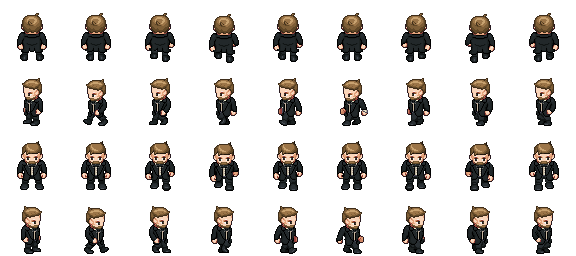
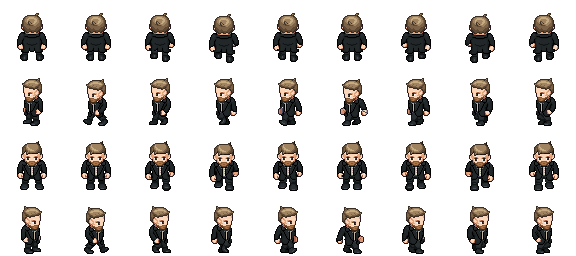
Update Logan LPC sprite from reference photos
Fuller medium beard, photo-based ash-brown hair and ginger-brown beard
colours, softer skin shadows, plus a haircut/beard comparison grid.
Reference photos are not stored in the repository.

Claude-Session: https://claude.ai/code/session_0114ftC5bk724vLgfL6oSvBr

diff --git a/tools/sprites/lpc_logan.py b/tools/sprites/lpc_logan.py
@@ -19,17 +19,25 @@ DRAFT = ROOT / 'docs' / 'art' / 'logan-draft-01' / 'recipe.json'
 OUT = ROOT / 'docs' / 'art' / 'logan-lpc-01'
 SRC = Path(sys.argv[1])
 
-HAIR = 'spritesheets/hair/cowlick/adult/light_brown.png'
-BEARD = 'spritesheets/beards/beard/trimmed/light_brown.png'
-# LPC light_brown ramp (dark -> light) mapped to the approved board's dirty blond.
-RAMP = {
-    (26, 14, 4): (30, 21, 12),
-    (48, 27, 7): (62, 45, 26),
-    (96, 53, 15): (96, 71, 39),
-    (125, 69, 19): (126, 94, 55),
-    (174, 104, 42): (156, 117, 72),
-    (200, 141, 88): (200, 162, 112),
-}
+HAIR_STYLE = 'cowlick'
+BEARD_STYLE = 'medium'
+LPC_RAMP = [(26, 14, 4), (48, 27, 7), (96, 53, 15), (125, 69, 19), (174, 104, 42), (200, 141, 88)]
+# Colours taken from the reference photos (kept out of the repo):
+# light ash-brown hair, lighter on top; warmer ginger-brown beard.
+HAIR_RAMP = [(28, 21, 16), (58, 45, 34), (92, 72, 52), (124, 99, 72), (160, 131, 96), (198, 170, 128)]
+# Softer skin shadows: the stock darkest shade reads as bright red at this size.
+SKIN_MAP = {(153, 66, 60): (164, 100, 80), (204, 134, 101): (214, 150, 118)}
+BEARD_RAMP = [(30, 18, 10), (66, 40, 22), (104, 64, 36), (136, 88, 52), (170, 116, 72), (204, 150, 100)]
+
+
+def hair_path(style):
+    for sub in ('adult', 'male'):
+        p = f'spritesheets/hair/{style}/{sub}/light_brown.png'
+        if (SRC / p).exists():
+            return p
+    raise FileNotFoundError(style)
+
+
 HAIR_CREDITS = [{
     'file': 'hair/cowlick',
     'notes': 'Original by bluecarrot16, animated by ElizaWy.',
@@ -41,14 +49,49 @@ HAIR_CREDITS = [{
 }]
 
 
-def recolour(img):
+def recolour(img, ramp):
+    table = dict(zip(LPC_RAMP, ramp))
     px = img.load()
     for y in range(img.height):
         for x in range(img.width):
             r, g, b, a = px[x, y]
-            if a and (r, g, b) in RAMP:
-                px[x, y] = RAMP[(r, g, b)] + (a,)
+            if a and (r, g, b) in table:
+                px[x, y] = table[(r, g, b)] + (a,)
     return img
+
+
+def recolour_map(img, table):
+    px = img.load()
+    for y in range(img.height):
+        for x in range(img.width):
+            r, g, b, a = px[x, y]
+            if a and (r, g, b) in table:
+                px[x, y] = table[(r, g, b)] + (a,)
+    return img
+
+
+def compose(hair_style, beard_style, crop):
+    recipe = json.loads(DRAFT.read_text())
+    layers = []
+    for layer in recipe['layers']:
+        if 'spritesheets/hair/' in layer['path']:
+            layer = {'path': hair_path(hair_style), 'definition': f'sheet_definitions/hair_{hair_style}.json',
+                     'credits': HAIR_CREDITS if hair_style == 'cowlick' else 'see CREDITS.csv for hair/' + hair_style,
+                     'recolour': 'hair'}
+        elif 'spritesheets/beards/' in layer['path']:
+            layer = {**layer, 'path': f'spritesheets/beards/beard/{beard_style}/light_brown.png', 'recolour': 'beard'}
+        layers.append(layer)
+    sheet = Image.new('RGBA', (crop[2] - crop[0], crop[3] - crop[1]))
+    for layer in layers:
+        part = Image.open(SRC / layer['path']).convert('RGBA').crop(crop)
+        if layer.get('recolour') == 'hair':
+            part = recolour(part, HAIR_RAMP)
+        elif layer.get('recolour') == 'beard':
+            part = recolour(part, BEARD_RAMP)
+        elif '/heads/' in layer['path'] or '/bodies/' in layer['path']:
+            part = recolour_map(part, SKIN_MAP)
+        sheet.alpha_composite(part)
+    return sheet, layers
 
 
 def font(size):
@@ -61,26 +104,15 @@ def font(size):
 def main():
     recipe = json.loads(DRAFT.read_text())
     crop = tuple(recipe['source_crop'])
-    layers = []
-    for layer in recipe['layers']:
-        if 'spritesheets/hair/' in layer['path']:
-            layer = {'path': HAIR, 'definition': 'sheet_definitions/hair_cowlick.json',
-                     'credits': HAIR_CREDITS, 'recolour': 'dirty blond ramp (see RAMP in tools/sprites/lpc_logan.py)'}
-        elif 'spritesheets/beards/' in layer['path']:
-            layer = {**layer, 'path': BEARD, 'recolour': 'dirty blond ramp (see RAMP in tools/sprites/lpc_logan.py)'}
-        layers.append(layer)
-
-    sheet = Image.new('RGBA', (crop[2] - crop[0], crop[3] - crop[1]))
-    for layer in layers:
-        part = Image.open(SRC / layer['path']).convert('RGBA').crop(crop)
-        if 'recolour' in layer:
-            part = recolour(part)
-        sheet.alpha_composite(part)
+    if len(sys.argv) > 2 and sys.argv[2] == '--candidates':
+        candidates(crop)
+        return
+    sheet, layers = compose(HAIR_STYLE, BEARD_STYLE, crop)
 
     OUT.mkdir(parents=True, exist_ok=True)
     sheet.save(OUT / 'logan-walk.png', optimize=True)
     out_recipe = {**recipe, 'status': 'original-style rebuild for review; not integrated into live game',
-                  'changes': recipe['changes'] + ' Hair swapped to cowlick; hair and beard recoloured to the approved dirty blond.',
+                  'changes': recipe['changes'] + f' Hair swapped to {HAIR_STYLE}, beard to {BEARD_STYLE}; hair and beard recoloured from reference-photo colours.',
                   'layers': layers}
     (OUT / 'recipe.json').write_text(json.dumps(out_recipe, indent=1) + '\n')
 
@@ -124,6 +156,26 @@ def main():
             f.alpha_composite(tile(row, col).resize((256, 256), Image.NEAREST))
             frames.append(f.convert('RGB'))
     frames[0].save(OUT / 'logan-walking.gif', save_all=True, append_images=frames[1:], duration=110, loop=0)
+
+
+def candidates(crop):
+    """Grid of haircut x beard options, front and right views, for choosing."""
+    hairs = ['cowlick', 'flat_top_fade', 'spiked', 'messy2', 'parted2', 'plain']
+    beards = ['trimmed', 'medium']
+    k = 3
+    img = Image.new('RGBA', (60 + len(hairs) * 2 * 64 * k, 60 + len(beards) * 64 * k), '#e9eedb')
+    d = ImageDraw.Draw(img)
+    for i, h in enumerate(hairs):
+        d.text((60 + i * 128 * k + 10, 10), h, font=font(18), fill='#14634a')
+        for j, b in enumerate(beards):
+            sheet, _ = compose(h, b, crop)
+            for v, row in enumerate((2, 3)):
+                t = sheet.crop((0, row * 64, 64, row * 64 + 64)).resize((64 * k, 64 * k), Image.NEAREST)
+                img.alpha_composite(t, (60 + i * 128 * k + v * 64 * k - 20, 40 + j * 64 * k))
+    for j, b in enumerate(beards):
+        d.text((4, 40 + j * 64 * k + 90), b, font=font(14), fill='#14634a')
+    out = Path(sys.argv[3])
+    img.convert('RGB').save(out)
 
 
 if __name__ == '__main__':

diff --git a/docs/art/logan-lpc-01/README.md b/docs/art/logan-lpc-01/README.md
@@ -10,9 +10,17 @@ This rebuilds Logan in the style of his [approved board](../logan-approved-01/RE
 
 ## What changed from draft 01
 
-- The buzzcut is replaced by the LPC "cowlick" hair: a compact, lifted, brushed-back top with short sides.
-- The hair and trimmed beard are recoloured to the muted dirty blond sampled from the approved board.
-- Same black suit, white shirt, black bow tie and black shoes.
+- The buzzcut is replaced by the LPC "cowlick" hair: short sides with a lifted, textured top.
+- The trimmed beard is replaced by the fuller "medium" beard.
+- Colours follow reference photos Lucas supplied on November 8, 2026: light ash-brown hair, lighter on top, and a warmer ginger-brown beard. The photos are not stored in the repository and no photo pixels are used.
+- The darkest stock skin shadow, which read as bright red, is softened to a warm brown.
+- Same black suit, white shirt, bow tie (mostly hidden by the beard) and black shoes.
+
+![Close-up](logan-closeup.png)
+
+Other haircut and beard combinations in the same colours, for comparison:
+
+![Hair and beard options](logan-hair-beard-options.png)
 
 ## Sheet
 
@@ -29,4 +37,4 @@ python3 tools/sprites/lpc_logan.py /path/to/Universal-LPC-Spritesheet-Character-
 
 ## Licence and credits
 
-The composition is distributed under [CC-BY-SA 4.0](https://creativecommons.org/licenses/by-sa/4.0/). `recipe.json` lists every layer with its artists, licence and source links. The hair is CC0 (bluecarrot16 and ElizaWy); the other layers keep the CC-BY-SA 3.0 or OGA-BY 3.0 choices recorded in draft 01. Changes: layer composition, hair swap, hair and beard recolouring, nearest-neighbour preview enlargement. These credits must appear in the game's credits before this sprite ships. No personal photo pixels are used.
+The composition is distributed under [CC-BY-SA 4.0](https://creativecommons.org/licenses/by-sa/4.0/). `recipe.json` lists every layer with its artists, licence and source links. The hair is CC0 (bluecarrot16 and ElizaWy); the other layers keep the CC-BY-SA 3.0 or OGA-BY 3.0 choices recorded in draft 01. Changes: layer composition, hair and beard swaps, hair, beard and skin-shadow recolouring, nearest-neighbour preview enlargement. These credits must appear in the game's credits before this sprite ships. No personal photo pixels are used.
